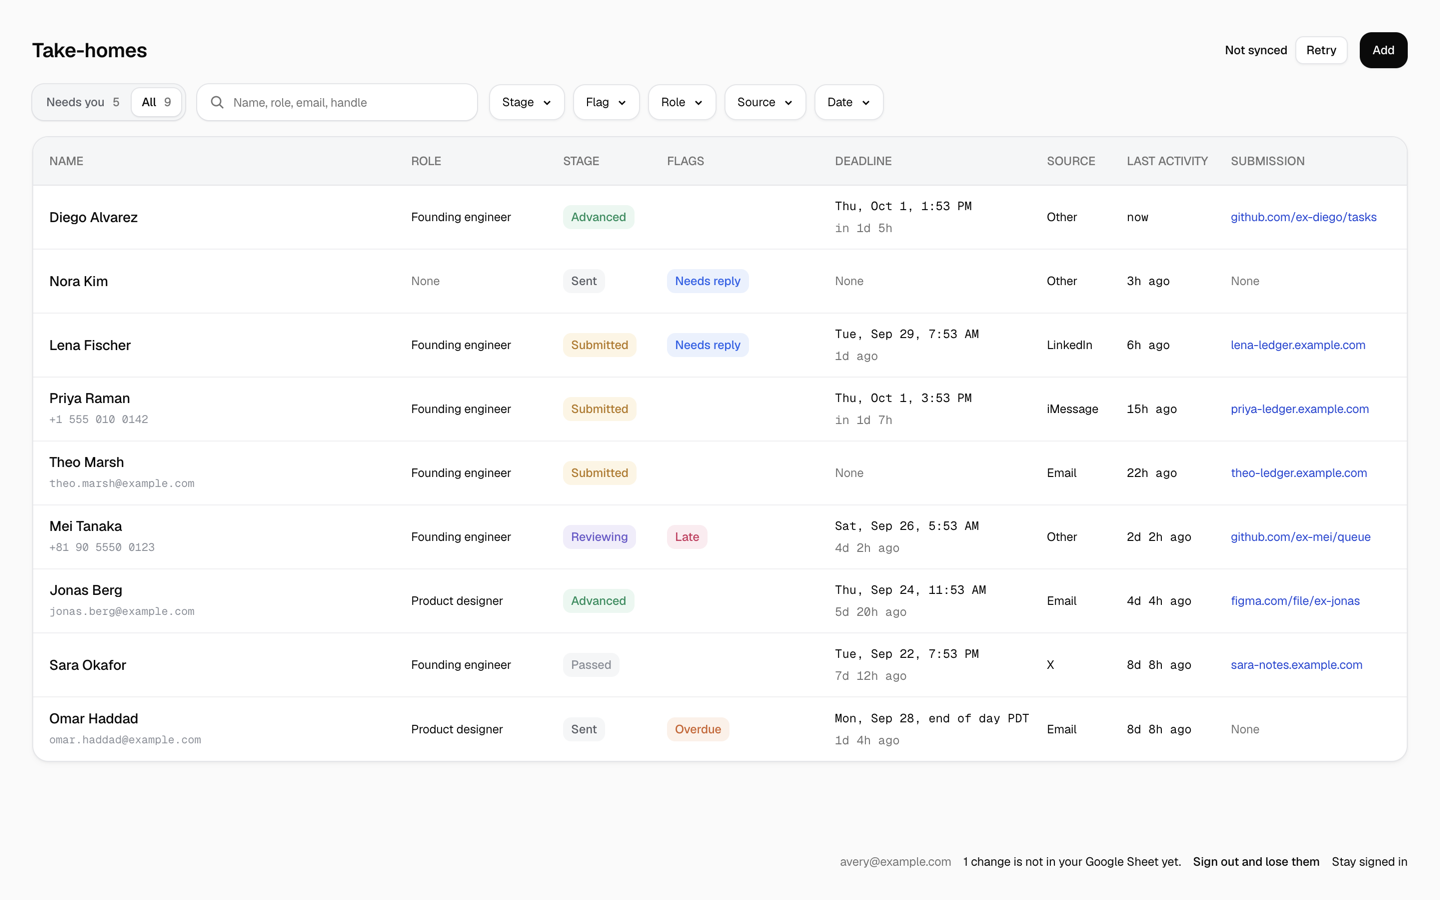
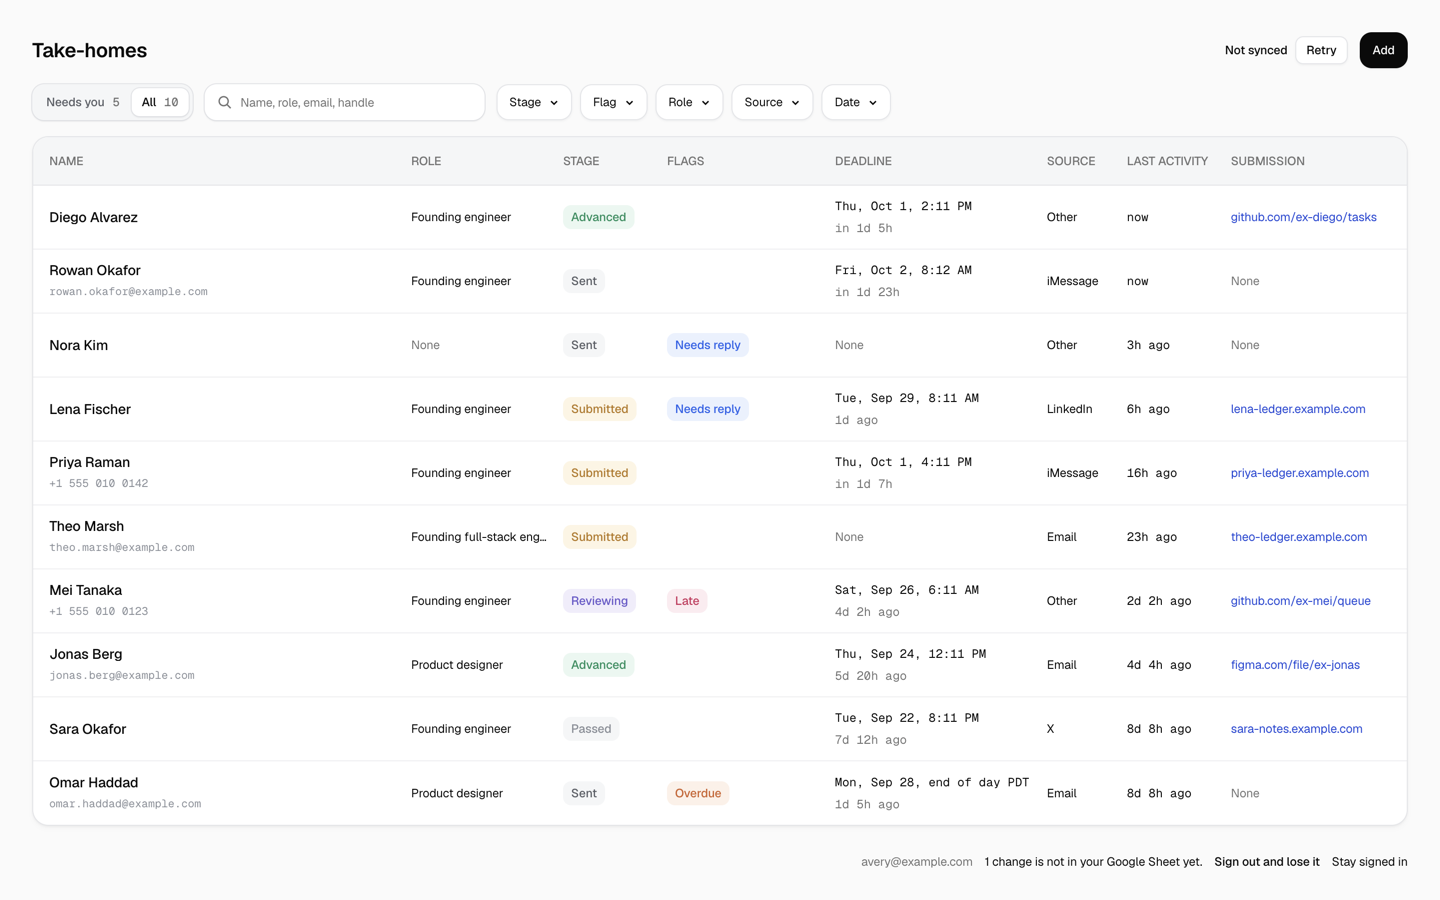
docs(qa): screenshots of a correction, the Role and Date filters, a second person, and a save by hand

diff --git a/docs/qa/aside/desktop-2.js b/docs/qa/aside/desktop-2.js
@@ -24,13 +24,25 @@ try {
   await tap(p, /button "Read"/);
   await sleep(400);
   await shot(p, 'f1-02-paste-proposes-new-1440');
+  // She corrects the role, and checks the message part further down.
+  await fillField(p, /textbox "Role"/, 'Founding full-stack engineer');
+  await p.evaluate(() => { const b = document.querySelector('.form-body'); if (b) b.scrollTop = b.scrollHeight; });
+  await sleep(300);
+  await shot(p, 'f1-03-paste-message-and-correction-1440');
   await tap(p, /button "Save"/);
   await sleep(900);
-  await shot(p, 'f1-03-saved-detail-1440');
+  await shot(p, 'f1-04-saved-detail-1440');
   await tap(p, /button "Close"/);
   await tap(p, /button "Add"/);
   await tap(p, /radio "By hand"/);
   await shot(p, 'f9-01-by-hand-1440');
+  await fillField(p, /textbox "Name"/, 'Rowan Okafor');
+  await fillField(p, /textbox "Role"/, 'Founding engineer');
+  await fillField(p, /textbox "Contact"/, 'rowan.okafor@example.com');
+  await tap(p, /button "48h"/);
+  await tapLast(p, /button "Add"/);
+  await sleep(900);
+  await shot(p, 'f9-02-by-hand-saved-1440');
   await tap(p, /button "Close"/);
   // Google fails: the save stays on this device, and the header says so, with the panel open.
   await tap(p, /radio "All/);
@@ -44,6 +56,11 @@ try {
   await sleep(800);
   await shot(p, 'sync-02-sign-out-asks-1440');
   await tap(p, /button "Stay signed in"/);
+  // Leave the browser clean for the next run: sign out, and let the refused save go.
+  await tap(p, /button "Sign out"/);
+  await sleep(800);
+  await tap(p, /button "Sign out and lose/);
+  await sleep(1500);
 } finally {
   await closeTab(p);
 }

diff --git a/docs/qa/aside/desktop-1.js b/docs/qa/aside/desktop-1.js
@@ -8,6 +8,14 @@ try {
   await tap(p, /link "Continue with Google"/);
   await sleep(800);
   await shot(p, 'f8-02-google-chooser-1440');
+  // Another person on the same browser gets an empty list of their own.
+  await tap(p, /link "Blake Rivera"/);
+  await sleep(2500);
+  await shot(p, 'f8-03-other-person-empty-1440');
+  await tap(p, /button "Sign out"/);
+  await sleep(1500);
+  await tap(p, /link "Continue with Google"/);
+  await sleep(800);
   await tap(p, /link "Avery Stone"/);
   await sleep(2500);
   await shot(p, 'f5-01-needs-you-1440');
@@ -28,6 +36,14 @@ try {
   await shot(p, 'f6-03-no-match-ways-back-1440');
   await tap(p, /button "Clear every filter/);
   await tap(p, /radio "All/);
+  await tap(p, /button "Role"/);
+  await shot(p, 'f6-04-role-filter-1440');
+  await p.keyboard.press('Escape');
+  await sleep(200);
+  await tap(p, /button "Date"/);
+  await shot(p, 'f6-05-date-filter-1440');
+  await p.keyboard.press('Escape');
+  await sleep(200);
   await tap(p, /button "Mei Tanaka"/);
   await shot(p, 'f4-02-late-detail-1440');
   await tap(p, /button "Close"/);

diff --git a/docs/qa/aside/lib.js b/docs/qa/aside/lib.js
@@ -32,3 +32,14 @@ async function signedIn(p) {
     await sleep(2500);
   }
 }
+async function tapLast(p, re) {
+  const lines = (await snapshot(p)).tree.split('\n').filter((l) => re.test(l));
+  const m = lines.at(-1)?.match(/\[ref=(e\d+)\]/);
+  if (!m) throw new Error('no ref for ' + re);
+  await p.locator(m[1]).click();
+  await sleep(350);
+}
+async function fillField(p, re, text) {
+  await p.locator(await refOf(p, re)).fill(text);
+  await sleep(150);
+}

diff --git a/docs/qa/aside/phone.js b/docs/qa/aside/phone.js
@@ -28,7 +28,7 @@ try {
   await phone(p);
   await tap(p, /button "Sign out"/);
   await sleep(1500);
-  await shot(p, 'f8-03-signed-out-390');
+  await shot(p, 'f8-04-signed-out-390');
 } finally {
   await closeTab(p);
 }

diff --git a/docs/qa/README.md b/docs/qa/README.md
@@ -16,7 +16,8 @@ She can change any field before she saves.
 
 - `f1-01-add-paste-1440.png`: Add opens on Paste.
 - `f1-02-paste-proposes-new-1440.png`: the proposal for "Theo Marsh", with his email as the contact.
-- `f1-03-saved-detail-1440.png`: after Save, the candidate is Submitted, with the submission and repo links and the message time from the email.
+- `f1-03-paste-message-and-correction-1440.png`: further down, the message time and the two links with their kinds. She changed the role before this shot.
+- `f1-04-saved-detail-1440.png`: after Save, the candidate is Submitted, with the corrected role, the links, and the message time from the email.
 - Tests: `test/e2e/paste.spec.ts`, `src/core/paste.test.ts`, `src/core/extract/*.test.ts`.
 
 ## F2. A second paste attaches
@@ -49,6 +50,7 @@ A chat from "Priya Raman" matches the candidate with that full name.
 - `f6-01-stage-filter-counts-1440.png`: each option shows how many candidates it would show.
 - `f6-02-stage-and-flag-1440.png`: Stage and Flag together. Each active filter takes the color of what it filters.
 - `f6-03-no-match-ways-back-1440.png`: when nothing matches, each way back shows how many candidates it would bring back.
+- `f6-04-role-filter-1440.png` and `f6-05-date-filter-1440.png`: the Role and Date filters.
 - Tests: `src/core/filters.test.ts`, `test/e2e/filters.spec.ts`, and `test/e2e/filters-combined.spec.ts`.
 
 ## F7. Phone width
@@ -62,13 +64,15 @@ A chat from "Priya Raman" matches the candidate with that full name.
 
 ## F8. Signed out, and one user per Sheet
 
-- `f8-01-signed-out-1440.png` and `f8-03-signed-out-390.png`: a signed-out visitor sees only "Continue with Google".
+- `f8-01-signed-out-1440.png` and `f8-04-signed-out-390.png`: a signed-out visitor sees only "Continue with Google".
 - `f8-02-google-chooser-1440.png`: the local fake Google account chooser. `pnpm dev` uses it, and the production build cannot contain it (D5).
+- `f8-03-other-person-empty-1440.png`: a second person signs in on the same browser and sees an empty list of their own.
 - Tests: `test/e2e/signin.spec.ts` (the API gives a signed-out visitor nothing, and one user never sees another on the same browser), `test/e2e/sync.spec.ts`, `src/worker/auth.test.ts`, and `src/worker/app.test.ts`.
 
 ## F9. By hand, with the model off
 
 - `f9-01-by-hand-1440.png`: the manual form. The model is off in this run, because there is no key (B2).
+- `f9-02-by-hand-saved-1440.png`: the candidate saved by hand, with a 48-hour deadline.
 - Tests: `test/e2e/candidates.spec.ts` ("with the model off, adding and advancing a candidate by hand works end to end").
 
 ## Sync
@@ -82,5 +86,6 @@ A chat from "Priya Raman" matches the candidate with that full name.
 1. Open Aside Browser.
 2. Run `docs/qa/aside/up.sh`. It starts the fake Google and the app, and adds the demo candidates.
 3. Run each script: `aside repl "$(cat docs/qa/aside/lib.js docs/qa/aside/desktop-1.js)"`, then `desktop-2.js`, then `phone.js`.
-   Run `up.sh` again before `phone.js`, because `desktop-2.js` leaves a save that Google refused.
+   Run `up.sh` again before `phone.js`, because `desktop-2.js` changes the demo data and makes the fake Google refuse saves.
+   `desktop-2.js` ends with a sign-out, so the browser keeps nothing for the next run.
 4. Run `docs/qa/aside/pull.sh`. It moves the new screenshots into this folder.
